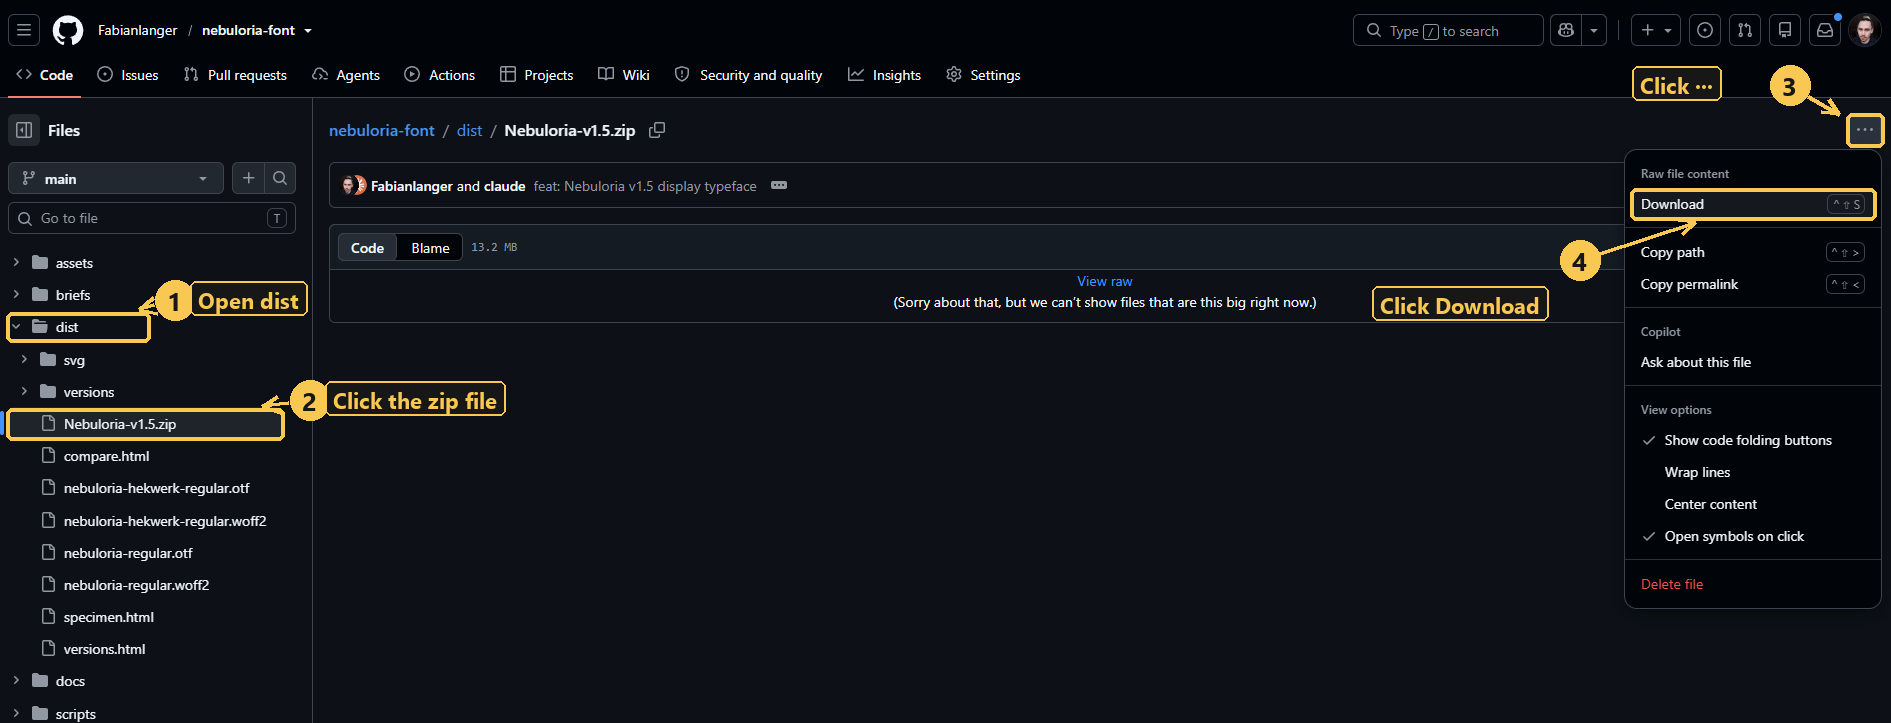
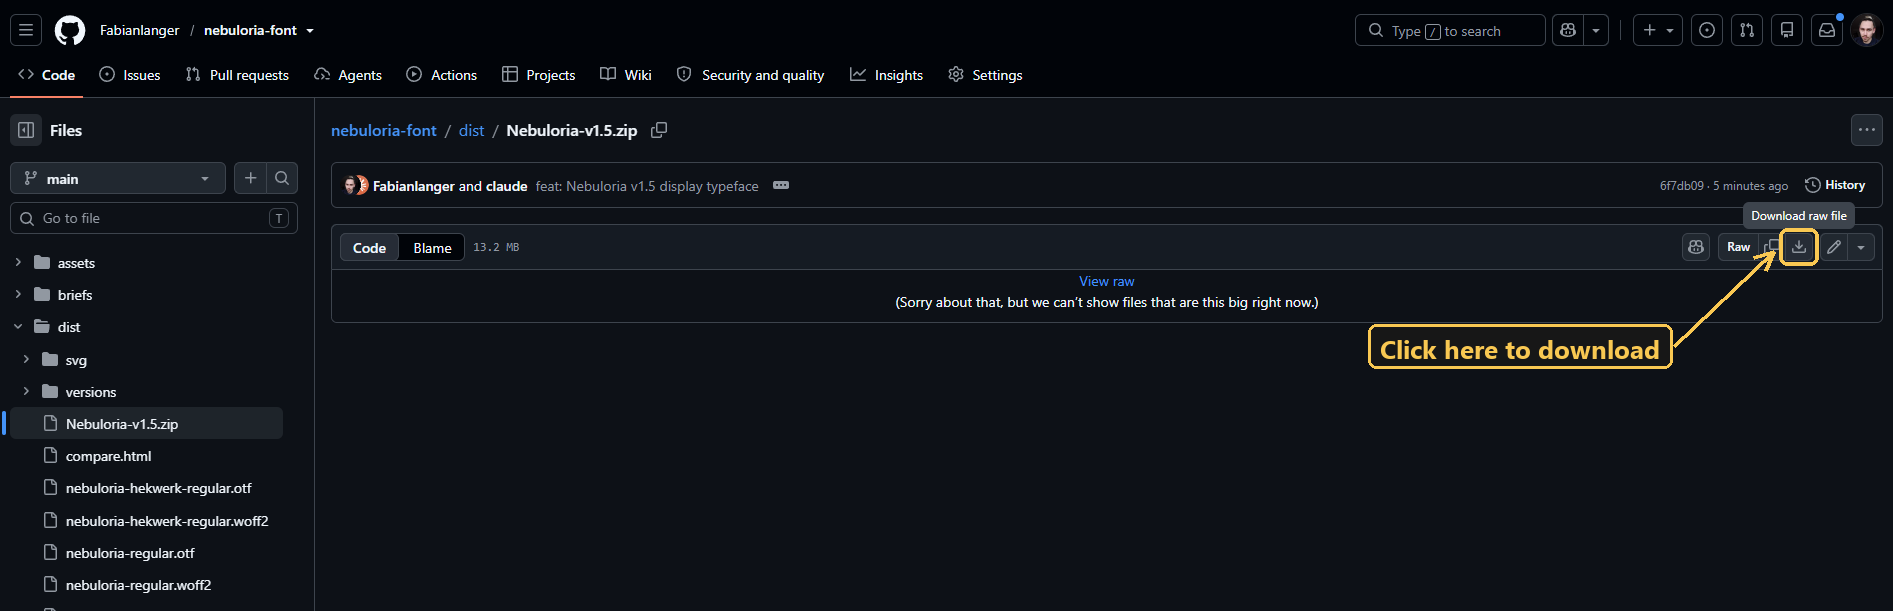
docs: simplify download guide to one click
Point to the zip's file page and mark only GitHub's download button.

diff --git a/scripts/annotate_download.py b/scripts/annotate_download.py
@@ -1,10 +1,12 @@
-"""Annotate a GitHub screenshot with numbered boxes and arrows (download how-to for the README).
+"""Mark one button on a screenshot with a box, an arrow and an instruction (README how-tos).
 
-Usage: python scripts/annotate_download.py <screenshot.png> <out.png>
-Coordinates match a 1891 x 723 screenshot of the dist/Nebuloria-v1.5.zip page.
+Usage: python scripts/annotate_download.py <screenshot.png> <out.png> x0 y0 x1 y1 "Label" [--label-at x y]
+  x0 y0 x1 y1   the box around the button (pixels in the screenshot)
+  --label-at    top-left of the label; default: below-left of the box
 """
 from __future__ import annotations
 
+import argparse
 import math
 import sys
 from pathlib import Path
@@ -15,55 +17,49 @@ COLOR = (249, 200, 82)       # Nebuloria yellow
 DARK = (23, 23, 23)
 FONT = r"C:\Windows\Fonts\segoeuib.ttf"
 
-# (step, box, badge centre, label, label position)
-STEPS = [
-    (1, (6, 312, 150, 342), (175, 300), "Open dist", (198, 285)),
-    (2, (6, 408, 284, 440), (310, 400), "Click the zip file", (333, 385)),
-    (3, (1846, 113, 1884, 147), (1790, 85), "Click ···", (1640, 70)),
-    (4, (1630, 188, 1876, 220), (1580, 260), "Click Download", (1380, 290)),
-]
 
-
-def arrow(d: ImageDraw.ImageDraw, a, b, w=4):
+def arrow(d: ImageDraw.ImageDraw, a, b, w=4) -> None:
     d.line([a, b], fill=COLOR, width=w)
     ang = math.atan2(b[1] - a[1], b[0] - a[0])
     for s in (-0.45, 0.45):
-        d.line([b, (b[0] - 18 * math.cos(ang + s), b[1] - 18 * math.sin(ang + s))], fill=COLOR, width=w)
+        d.line([b, (b[0] - 20 * math.cos(ang + s), b[1] - 20 * math.sin(ang + s))], fill=COLOR, width=w)
 
 
-def annotate(src: Path, dst: Path) -> Path:
+def annotate(src: Path, dst: Path, box: tuple[int, int, int, int], label: str, label_at=None) -> Path:
     img = Image.open(src).convert("RGB")
     d = ImageDraw.Draw(img)
-    num = ImageFont.truetype(FONT, 26)
-    lab = ImageFont.truetype(FONT, 22)
-    for n, box, badge, label, lpos in STEPS:
-        d.rounded_rectangle(box, radius=6, outline=COLOR, width=4)
-        cx, cy = badge
-        target = ((box[0] + box[2]) / 2, (box[1] + box[3]) / 2)
-        # arrow from badge edge to box edge
-        ang = math.atan2(target[1] - cy, target[0] - cx)
-        start = (cx + 22 * math.cos(ang), cy + 22 * math.sin(ang))
-        bw, bh = (box[2] - box[0]) / 2, (box[3] - box[1]) / 2
-        t = min(bw / max(abs(math.cos(ang)), 1e-6), bh / max(abs(math.sin(ang)), 1e-6))
-        end = (target[0] - (t + 8) * math.cos(ang), target[1] - (t + 8) * math.sin(ang))
-        arrow(d, start, end)
-        d.ellipse((cx - 20, cy - 20, cx + 20, cy + 20), fill=COLOR)
-        d.text((cx, cy), str(n), font=num, fill=DARK, anchor="mm")
-        tw = d.textlength(label, font=lab)
-        x, y = lpos
-        d.rounded_rectangle((x - 8, y - 4, x + tw + 8, y + 30), radius=6, fill=DARK, outline=COLOR, width=2)
-        d.text((x, y), label, font=lab, fill=COLOR)
+    font = ImageFont.truetype(FONT, 26)
+    pad = 6
+    bx = (box[0] - pad, box[1] - pad, box[2] + pad, box[3] + pad)
+    d.rounded_rectangle(bx, radius=8, outline=COLOR, width=4)
+    tw = d.textlength(label, font=font)
+    lx, ly = label_at if label_at else (bx[0] - tw - 120, bx[3] + 60)
+    lx = max(10, min(lx, img.width - tw - 26))
+    d.rounded_rectangle((lx - 12, ly - 6, lx + tw + 12, ly + 38), radius=8, fill=DARK, outline=COLOR, width=3)
+    d.text((lx, ly), label, font=font, fill=COLOR)
+    start = (lx + tw + 14, ly + 16)
+    end = (bx[0] - 6, (bx[1] + bx[3]) / 2 + 6)
+    arrow(d, start, end)
     dst.parent.mkdir(parents=True, exist_ok=True)
     img.save(dst, optimize=True)
     return dst
 
 
-if __name__ == "__main__":
-    if len(sys.argv) != 3:
-        print(__doc__, file=sys.stderr)
-        raise SystemExit(2)
+def main(argv: list[str]) -> int:
+    ap = argparse.ArgumentParser(description=__doc__)
+    ap.add_argument("src", type=Path)
+    ap.add_argument("dst", type=Path)
+    ap.add_argument("box", type=int, nargs=4)
+    ap.add_argument("label")
+    ap.add_argument("--label-at", type=int, nargs=2)
+    a = ap.parse_args(argv)
     try:
-        print(f"wrote {annotate(Path(sys.argv[1]), Path(sys.argv[2]))}")
+        print(f"wrote {annotate(a.src, a.dst, tuple(a.box), a.label, a.label_at)}")
     except OSError as exc:
         print(f"annotate failed: {exc}", file=sys.stderr)
-        raise SystemExit(1)
+        return 1
+    return 0
+
+
+if __name__ == "__main__":
+    raise SystemExit(main(sys.argv[1:]))

diff --git a/README.md b/README.md
@@ -16,16 +16,9 @@ Heavy strokes carry hair-thin tendrils, corners are cut at 45°, small leaves gr
 
 Download the **newest** version. At the time of writing that is **v1.5**; newer versions add more characters.
 
-**Easiest:** click **[⬇ Download Nebuloria-v1.5.zip](https://github.com/Fabianlanger/nebuloria-font/raw/main/dist/Nebuloria-v1.5.zip)**. The download starts right away.
+Click **[⬇ Nebuloria-v1.5.zip](dist/Nebuloria-v1.5.zip)**. On the page that opens, click the **download button** (the small arrow pointing down, on the right):
 
-**Or step by step on this page:**
-
-![How to download Nebuloria on GitHub in four steps](docs/img/how-to-download.png)
-
-1. In the file list, open the folder **dist**.
-2. Click the file **Nebuloria-v1.5.zip** (or the newest version number you see).
-3. Click the **···** button at the top right.
-4. Click **Download**.
+![Click the download button on the right](docs/img/how-to-download.png)
 
 Then unzip it: double-click the file (Mac) or right-click → **Extract all** (Windows).
 
